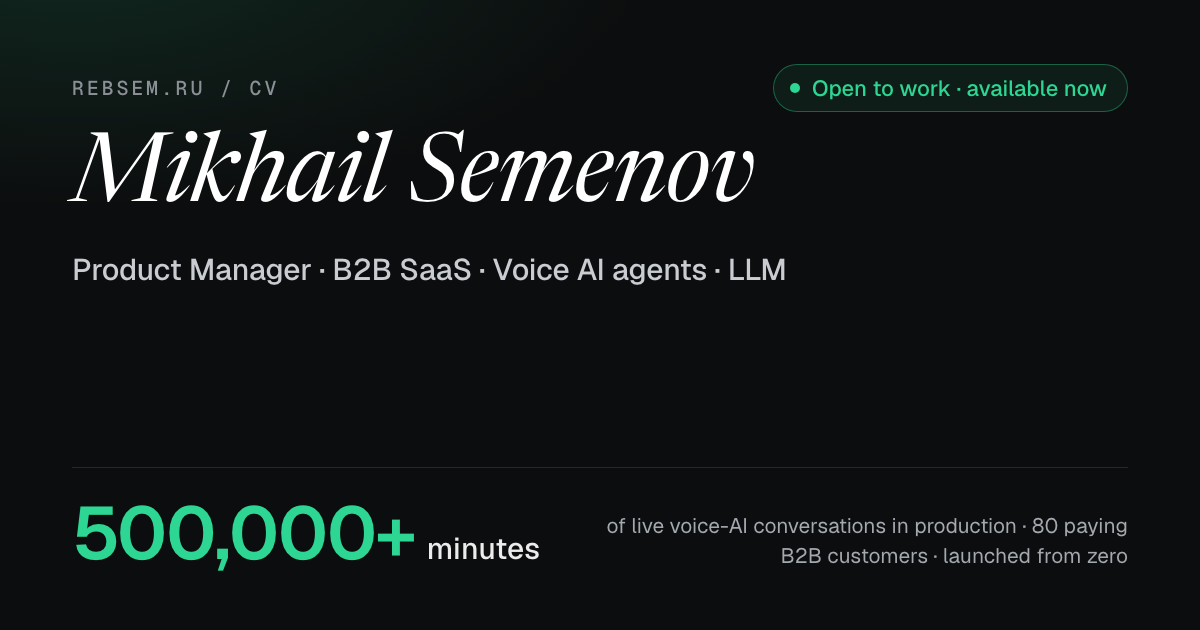
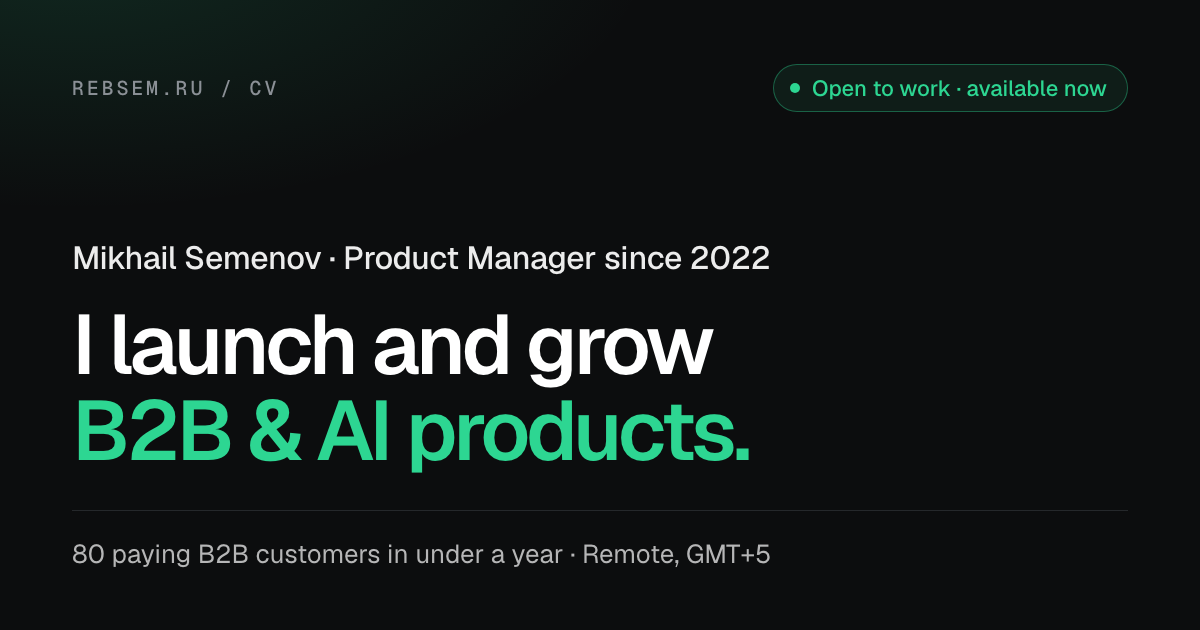
feat: tenure on the home page, laptop fold, resume link and new link previews (#77)
* feat: years in role next to the name on the home page

The byline said only "Product Manager", so a screener had to guess the tenure from case dates and could read the profile as about one year. It now says "Product Manager since 2022", with the year read from the Zvonobot role in cv.ts so it cannot drift from the resume.

* fix: results band fits the first screen on common laptops

On a 1366x768 screen the browser chrome leaves 657-680px of viewport, and the results labels under 80 / +30% / 30% ended 715-745px down, below the fold. A short-viewport media query (721px and wider, up to 770px tall) tightens the opener spacing and the H1 so the labels land inside the first screen, while taller laptops keep the full 89.6px headline.

* content: drop the weaker-fit block from About

The "Where I'm a weaker fit" block told English-speaking recruiters the candidate is uneasy with live C-level English, which contradicts the resume and llms.txt ("confident on work calls"). The other two anti-fit points are already covered positively in blocks 02 and 05, so the whole block goes in both locales and the remaining blocks stay numbered 01 to 05.

* feat: quiet resume link in the home closing and on case pages
[…]

diff --git a/src/data/site-content.ts b/src/data/site-content.ts
@@ -1,5 +1,6 @@
 import type { Locale, LocalizedText } from '../types/content';
 import {
+  cvExperience,
   cvMetric,
   email,
   githubUsername,
@@ -147,16 +148,6 @@ export const aboutBlocks: AboutBlock[] = [
       { ru: 'Короткий цикл от идеи до проверки', en: 'A short loop from idea to validation' },
       { ru: 'Продуктовая логика поверх AI, а не AI ради AI', en: 'Product logic on top of AI, not AI for its own sake' },
       { ru: 'Возможность вести задачу целиком, а не быть звеном в цепочке согласований', en: 'Owning a problem from start to finish, not being one step in an approval chain' },
-    ],
-  },
-  {
-    eyebrow: { ru: '06 · Где буду полезен меньше', en: '06 · Where I’m a weaker fit' },
-    title: { ru: 'Честно про anti-fit', en: 'An honest anti-fit' },
-    body: [],
-    bullets: [
-      { ru: 'Чисто исследовательский ML/data science без продуктового слоя', en: 'Pure research ML or data science with no product layer on top' },
-      { ru: 'Продукт, где AI добавляют «для галочки»', en: 'Products that add AI as a checkbox' },
-      { ru: 'Роли с живыми переговорами на английском на C-уровне (письменно и async комфортно)', en: 'Roles needing live C-level negotiation in English (written and async are comfortable)' },
     ],
   },
 ];
@@ -333,6 +324,13 @@ export const agentOps = {
   receiptDeployNote: { ru: 'этот деплой собран из такого PR', en: 'this deploy shipped from one of them' },
 } as const;
 
+// The year the product work started, read from the Zvonobot role in cv.ts so
+// the byline cannot drift from the resume. Throws at build time if that role
+// is renamed, the same way cvMetric() fails loudly.
+const zvonobotRole = cvExperience.find((role) => role.company.en.startsWith('Zvonobot'));
+if (!zvonobotRole) throw new Error('Zvonobot role not found in cvExperience');
+const productSinceYear = zvonobotRole.startDate.slice(0, 4);
+
 export const uiCopy = {
   nav: {
     home: { ru: 'Главная', en: 'Home' },
@@ -344,6 +342,12 @@ export const uiCopy = {
   home: {
     // The hero makes one claim and backs it with one result. Career numbers
     // stay owned by cv.ts; both locales render the same semantic component.
+    // The byline states how long the product work has run: a bare job title
+    // leaves a screener to guess the tenure.
+    heroRole: {
+      ru: `Product Manager с ${productSinceYear} года`,
+      en: `Product Manager since ${productSinceYear}`,
+    },
     title: {
       ru: 'Запускаю и развиваю',
       en: 'I launch and grow',
@@ -367,8 +371,9 @@ export const uiCopy = {
       ru: 'Ищу работу · готов выйти сразу',
       en: 'Open to work · available now',
     },
-    // Same wording as the meta description, /cv and About: the stance is
-    // "open to", not a bare noun, in both locales.
+    // Same wording as /cv and About: the stance is "open to", not a bare
+    // noun, in both locales. The meta descriptions leave relocation out to
+    // stay under 160 characters.
     workFormat: {
       ru: 'Удалённо · GMT+5 · открыт к релокации',
       en: 'Remote · GMT+5 · open to relocation',
@@ -577,6 +582,12 @@ export const uiCopy = {
     pitch: {
       ru: 'Напишите, если ищете продакта в B2B SaaS, платежи или AI-продукты.',
       en: 'Write me if you are hiring a product manager for B2B SaaS, payments or AI products.',
+    },
+    // The quiet text link to /cv after Email on the home closing and in the
+    // case availability strip. Not a button: the resume is a second step.
+    resume: {
+      ru: 'Резюме',
+      en: 'Resume',
     },
     navAria: {
       ru: 'Навигация в подвале',

diff --git a/tests/cv.test.ts b/tests/cv.test.ts
@@ -234,10 +234,48 @@ describeBuilt('cv build output', () => {
     expect(readDist('llms.txt')).not.toMatch(/\/cv\b/);
   });
 
-  it('is not linked from the site chrome', () => {
-    // Unlisted means no inbound links, not just no sitemap entry.
-    for (const page of ['index.html', 'ru/index.html', 'about/index.html', 'ru/about/index.html']) {
+  it('is linked only from the quiet resume links, all nofollow', () => {
+    // Unlisted still means no sitemap entry, no menu and no llms.txt line.
+    // The one link after Email on each home page and the one in each case's
+    // availability strip are the only inbound links, and both are nofollow.
+    for (const page of ['about/index.html', 'ru/about/index.html']) {
       expect(readDist(page), `${page} links to the CV`).not.toMatch(/href="\/(ru\/)?cv/);
+    }
+
+    for (const [page, href] of [
+      ['index.html', '/cv/'],
+      ['ru/index.html', '/ru/cv/'],
+    ] as const) {
+      const links = readDist(page).match(new RegExp(`<a [^>]*href="${href}"[^>]*>`, 'g')) ?? [];
+      expect(links, `${page} resume links`).toHaveLength(1);
+      expect(links[0], `${page} resume link is not nofollow`).toMatch(/rel="nofollow"/);
+    }
+
+    for (const [base, href] of [
+      ['projects', '/cv/'],
+      ['ru/projects', '/ru/cv/'],
+    ] as const) {
+      const cases = readdirSync(path.join(DIST, base), { withFileTypes: true }).filter((entry) =>
+        entry.isDirectory(),
+      );
+      expect(cases.length, `${base} has no case studies`).toBeGreaterThan(3);
+      for (const entry of cases) {
+        const page = `${base}/${entry.name}/index.html`;
+        expect(readDist(page), `${page} has no nofollow resume link`).toMatch(
+          new RegExp(`<a [^>]*href="${href}"[^>]*rel="nofollow"`),
+        );
+      }
+    }
+  });
+
+  it('marks the resume downloads nofollow', () => {
+    // Files are not pages to rank, and the links should not pass equity to them.
+    for (const page of ['cv/index.html', 'ru/cv/index.html']) {
+      const downloads = readDist(page).match(/<a [^>]*href="[^"]*\.(?:pdf|docx|txt)"[^>]*>/g) ?? [];
+      expect(downloads.length, `${page} download links`).toBeGreaterThanOrEqual(4);
+      for (const tag of downloads) {
+        expect(tag, `${page} download link without nofollow`).toMatch(/rel="[^"]*nofollow/);
+      }
     }
   });
 

diff --git a/src/styles/global.css b/src/styles/global.css
@@ -1232,6 +1232,24 @@ html[data-theme='dark'] .theme-icon-sun {
   color: color-mix(in oklab, var(--foreground) 66%, transparent);
 }
 
+/* The resume: a quiet text link after Email, set like the footer nav and
+   as tall as the icon row beside it so it is easy to tap. */
+.site-footer-closing .footer-cv {
+  display: inline-flex;
+  align-items: center;
+  min-height: 2.65rem;
+  font-size: 0.875rem;
+  color: color-mix(in oklab, var(--foreground) 72%, transparent);
+  text-decoration: none;
+}
+
+.site-footer-closing .footer-cv:hover,
+.site-footer-closing .footer-cv:focus-visible {
+  color: var(--accent-text);
+  text-decoration: underline;
+  text-underline-offset: 4px;
+}
+
 /* The status again, for the reader who scrolled to the end: the same
    wording as the hero, the dot static. */
 .footer-status {

diff --git a/docs/workflow.md b/docs/workflow.md
@@ -60,3 +60,11 @@ The repository PR template already includes the required checklist.
 - confirm GitHub Pages deploy succeeds
 - move the issue to review or done depending on whether manual verification is still needed
 - if manual QA is required, leave a short note with the exact routes to check
+
+## 7. Refresh link previews
+
+Telegram, LinkedIn and Facebook (WhatsApp reads Facebook's cache) keep the preview they fetched for a page address. A new `?v=` on the card does not reach a cached address, so after a change to a link-preview card (`npm run og:build`, `OG_CARD_VERSION` in `src/layouts/Layout.astro`) or to a page's title or description, ask each service to fetch the page again. Do this once the Pages deploy from `main` has finished:
+
+1. Telegram: send each address to `@WebpageBot`: `https://rebsem.ru/`, `https://rebsem.ru/ru/`, `https://rebsem.ru/about/`, `https://rebsem.ru/ru/about/`, `https://rebsem.ru/cv/`, `https://rebsem.ru/ru/cv/`, and both Zvonobot case studies, `https://rebsem.ru/projects/zvonobot-ai-en/` and `https://rebsem.ru/ru/projects/zvonobot-ai-ru/`.
+2. LinkedIn: run the same addresses through the Post Inspector at `https://www.linkedin.com/post-inspector/` and inspect each one again.
+3. Facebook: run the same addresses through the Sharing Debugger at `https://developers.facebook.com/tools/debug/` and choose "Scrape again" for each one.
